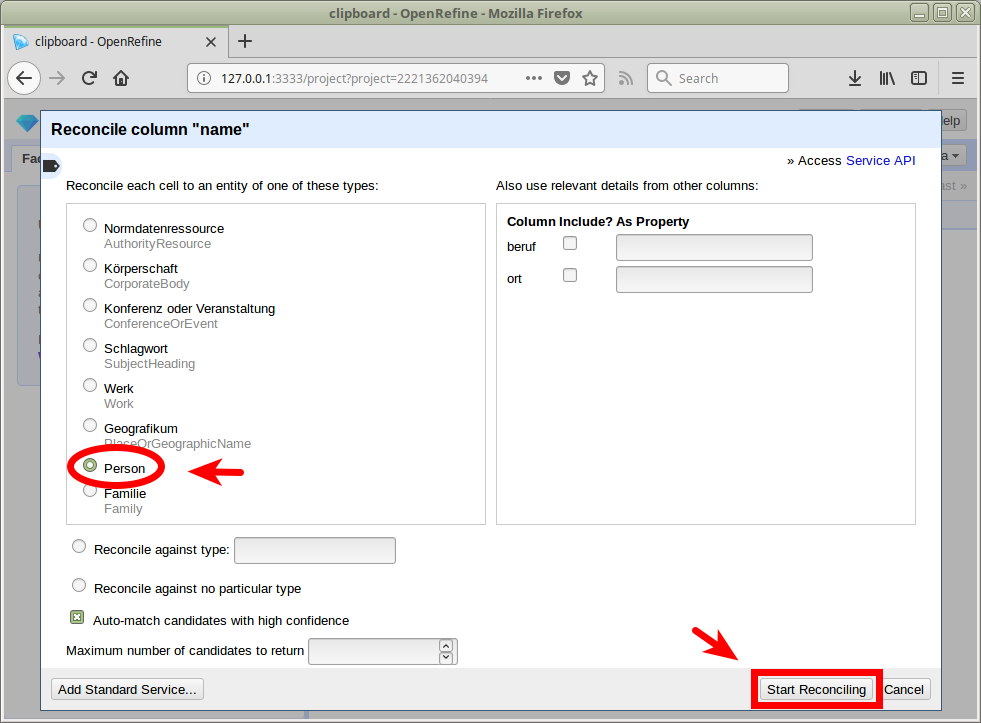
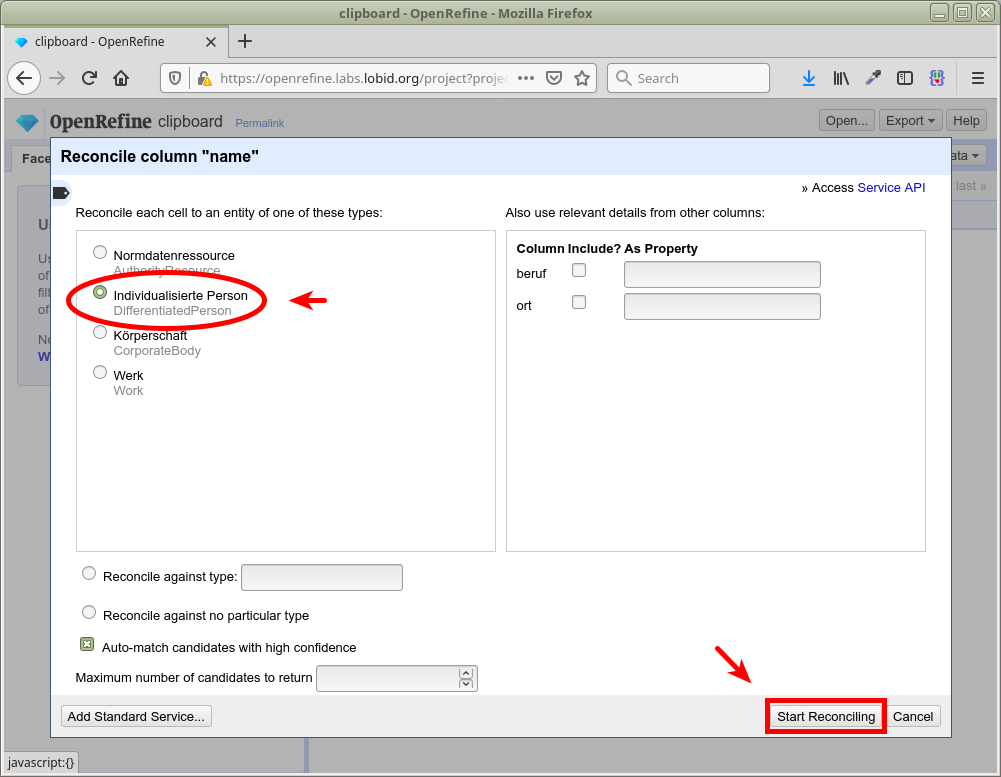
Update links, screenshots, and exercises

Changed region(s): [[0.0, 0.0, 1.0, 1.0]]

diff --git a/2020-zbiw/index.html b/2020-zbiw/index.html
@@ -1006,25 +1006,25 @@ _exists_:dateOfBirth
 			</section>
 
 			<section data-state="adrian">
-				<a href="http://lobid.org/resources/HT019788651"><img src="img/lobid-resources-einzeltreffer.png" width=1024 style="border: none; box-shadow: none;" /></a>
+				<a href="https://lobid.org/resources/HT019788651"><img src="img/lobid-resources-einzeltreffer.png" width=1024 style="border: none; box-shadow: none;" /></a>
 			</section>
 
 			<section data-state="adrian">
-				<a href="http://lobid.org/resources/HT019788651"><img src="img/focus-json-ld-res.png" width=1024 style="border: none; box-shadow: none;" /></a>
+				<a href="https://lobid.org/resources/HT019788651"><img src="img/focus-json-ld-res.png" width=1024 style="border: none; box-shadow: none;" /></a>
 			</section>
 
 			<section data-state="adrian">
-				<a href="http://lobid.org/resources/HT019788651.json"><img src="img/browser-json-res.png" width=800 style="border: none; box-shadow: none;" /></a>
+				<a href="https://lobid.org/resources/HT019788651.json"><img src="img/browser-json-res.png" width=800 style="border: none; box-shadow: none;" /></a>
 			</section>
 
 			<section data-state="adrian">
-				<a href="https://www.w3.org/TR/json-ld/"><img src="img/get-json-res.png" width="1024" /></a>
+				<a href="https://lobid.org/resources/HT019788651.json"><img src="img/get-json-res.png" width="1024" /></a>
 			</section>
 
 			<section data-state="adrian">
 				<h1>Datenherkunft &amp; -generierung</h1>
 				<p><span class="fragment">Tägl. Bezug der XML-Daten über den Aleph-Publishing-Mechanismus</span></p>
-				<p><span class="fragment">Konversion nach N-Triples mittels mit Metafacture (<a href="https://github.com/hbz/lobid-resources/blob/master/src/main/resources/morph-hbz01-to-lobid.xml">Morph</a>)</span></p>
+				<p><span class="fragment">Konversion nach N-Triples mit Metafacture (<a href="https://github.com/hbz/lobid-resources/blob/master/src/main/resources/morph-hbz01-to-lobid.xml">Morph</a>)</span></p>
 				<p><span class="fragment">Dabei finden verschiedene Normalisierungsarbeiten statt</span></p>
 				<p><span class="fragment">Labels für verlinkte Ressourcen ergänzen</span></p>
 				<p><span class="fragment">Et voilà: Linked Open Usable Data (LOUD) <small>-> siehe Rob Sanderson's Europeanatech 2018 Keynote (<a href="https://de.slideshare.net/azaroth42/europeanatech-keynote-shout-it-out-loud">Slides</a>, <a href="https://www.youtube.com/watch?v=r4afi8mGVAY">Aufzeichnung</a>)</small></span></p>
@@ -1039,16 +1039,16 @@ _exists_:dateOfBirth
 
 			<section data-state="adrian">
 				<h3>c. Web-API</h3>
-				<a href="http://lobid.org/resources/api"><img src="img/lobid-resources-api.png" width="800" /></a>
+				<a href="https://lobid.org/resources/api"><img src="img/lobid-resources-api.png" width="800" /></a>
 			</section>
 
 			<section data-state="adrian">
 				<h2>Abfragemöglichkeiten</h2>
 				<p><span class="fragment">JSON-LD-Daten in Elasticsearch-Index</span></p>
 				<p><span class="fragment"><a href="https://www.elastic.co/guide/en/elasticsearch/reference/current/query-dsl-query-string-query.html#query-string-syntax">Elasticsearch</a> bzw. <a href="https://lucene.apache.org/core/2_9_4/queryparsersyntax.html">Lucene</a> Suchsyntax</span></p>
-				<p><span class="fragment"><a href="http://lobid.org/resources/api#query-syntax">Abfrage nach gelöschten Titeln</a> (ab 2018-04-04)</span></p>
-				<p><span class="fragment"><a href="http://lobid.org/resources/api#auto-complete">Parameter für Auto Suggest</a></span></p>
-				<p><span class="fragment"><a href="http://lobid.org/resources/api#content_types">Parameter für Bulk Downloads</a></span></p>
+				<p><span class="fragment"><a href="https://lobid.org/resources/api#query-syntax">Abfrage nach gelöschten Titeln</a> (ab 2018-04-04)</span></p>
+				<p><span class="fragment"><a href="https://lobid.org/resources/api#auto-complete">API für Auto Suggest</a></span></p>
+				<p><span class="fragment"><a href="https://lobid.org/resources/api#bulk_downloads">API für Bulk Downloads</a></span></p>
 			</section>
 
 			<section data-state="adrian">
@@ -1057,7 +1057,7 @@ _exists_:dateOfBirth
 
 			<section data-state="adrian">
 				<h2>Ermitteln eines hbz-Titels anhand der OCLC-Nummer</h2>
-				<a href="http://lobid.org/resources/search?q=oclcNumber:601339369"><code>oclcNumber:601339369</code></a>
+				<a href="https://lobid.org/resources/search?q=oclcNumber:601339369"><code>oclcNumber:601339369</code></a>
 			</section>
 
 			<section data-state="adrian">
@@ -1080,7 +1080,7 @@ AND _exists_:hasItem
 			</section>
 
 			<section data-state="adrian">
-				<h3>ZDB-Titel, die mit einer NWBib-Systematik erschlossen sind aber nicht der NWBib zugerechnet werden und von der ULB Bonn erstellt wurden</h3>
+				<h3>ZDB-Titel, die mit einer NWBib-Systematik erschlossen sind, aber nicht der NWBib zugerechnet werden und von der ULB Bonn erstellt wurden</h3>
 				<a href="https://lobid.org/resources/search?q=subject.source.id%3A%28%22https%3A%2F%2Fnwbib.de%2Fsubjects%22+OR+%22https%3A%2F%2Fnwbib.de%2Fspatial%22%29+AND+inCollection.id%3A%22http%3A%2F%2Flobid.org%2Fresources%2FHT014846970%23%21%22+AND+NOT+inCollection.id%3A%22http%3A%2F%2Flobid.org%2Fresources%2FHT014176012%23%21%22AND+describedBy.sourceOrganization.id%3A%22http%3A%2F%2Flobid.org%2Forganisations%2FDE-5%23%21%22">
 				<pre><code class="json" data-trim>
 subject.source.id:
@@ -1127,7 +1127,11 @@ describedBy.deleted:[20190214 TO 2019023]
 				<p><span class="fragment">Läuft im Browser, lokal oder gehostet</span></p>
 			</section>
 
-			<section data-state="fabian"><p>TODO: Hosted Instanz (v3.4) zur Nutzung (war: https://openrefine.labs.lobid.org)</p></section>
+			<section data-state="fabian">
+				<h1>OpenRefine</h1>
+				<p><a href="https://openrefine.org/download.html">https://openrefine.org/download.html</a></p>
+				<p><a href="https://openrefine.labs.lobid.org">https://openrefine.labs.lobid.org</a></p>
+			</section>
 
 			<section data-state="fabian">
 				<h1>Reconciliation mit OpenRefine</h1>
@@ -1141,11 +1145,27 @@ describedBy.deleted:[20190214 TO 2019023]
 			<section data-state="fabian"><h1>Grundlegendes Vorgehen</h1></section>
 
 			<section data-state="fabian">
+				<img src="img/openrefine-clipboard.png" width=800 style="border: none; box-shadow: none;" />
+			</section>
+
+			<section data-state="fabian">
+				<img src="img/openrefine-data.png" width=800 style="border: none; box-shadow: none;" />
+			</section>
+
+			<section data-state="fabian">
 				<img src="img/openrefine-project.png" width=800 style="border: none; box-shadow: none;" />
 			</section>
 
 			<section data-state="fabian">
 				<img src="img/openrefine-reconcile.png" width=800 style="border: none; box-shadow: none;" />
+			</section>
+
+			<section data-state="fabian">
+				<img src="img/openrefine-add-service.png" width=800 style="border: none; box-shadow: none;" />
+			</section>
+
+			<section data-state="fabian">
+				<img src="img/openrefine-service-url.png" width=800 style="border: none; box-shadow: none;" />
 			</section>
 
 			<section data-state="fabian">
@@ -1157,8 +1177,18 @@ describedBy.deleted:[20190214 TO 2019023]
 			</section>
 
 			<section data-state="fabian">
-				<h1>Übung <br/><small>Grundlegendes Vorgehen</small></h1>
-				<a href="https://blog.lobid.org/2018/08/27/openrefine.html">https://blog.lobid.org/2018/08/27/openrefine.html</a> <br/>(bis 'Start Reconciling')
+				<h1>Übung</h1>
+				<pre><code class=nohighlight>
+name;beruf;ort
+J. Weizenbaum;Informatiker;Berlin
+Twain, Mark;Schriftsteller;
+Kumar, Lalit;;
+Jemand;;
+				</code></pre>
+				<pre><code class=nohighlight>
+https://lobid.org/gnd/reconcile
+				</code></pre>
+				<p><small>(Daten und URL per CTRL+C in die Zwischenablage kopieren)</small></p>
 			</section>
 
 			<section data-state="fabian"><h1>Daten erweitern</h1></section>
@@ -1185,7 +1215,6 @@ describedBy.deleted:[20190214 TO 2019023]
 
 			<section data-state="fabian">
 				<h1>Übung</h1>
-				<p><em>Lade diese Liste, matche die Einträge mit der GND und ergänze Berufe und Wirkungsorte</em></p>
 				<pre><code class=csv>
 id,name
 1,Haddaway
@@ -1197,6 +1226,7 @@ id,name
 7,Anne Cuneo
 8,Vitus Huonder
 				</code></pre>
+				<p>Reconcile, Berufe und Wirkungsorte ergänzen</p>
 			</section>
 
 			<section data-state="fabian"><h1>Ergebnisse verbessern</h1></section>
@@ -1214,9 +1244,11 @@ id,name
 			</section>
 
 			<section data-state="fabian">
-				<h2>Übung: Properties zur Verbessung der Matches – Beispiele</h2>
-				<p><span class="fragment">Lebensdaten</span></p>
-				<p><span class="fragment">Beruf &amp; Parteizugehörigkeit</span></p>
+				<h1>Übung</h1>
+				<p><span class="fragment">Properties zur Verbessung der Matches</span></p>
+				<p><span class="fragment">Auf Basis von konreten Anfragen durch Nutzer</span></p>
+				<p><span class="fragment">1. Beispiel: Lebensdaten</span></p>
+				<p><span class="fragment">2. Beispiel: Beruf &amp; Parteizugehörigkeit</span></p>
 				<p><span class="fragment"><a href="http://blog.lobid.org/2019/09/30/openrefine-examples.html">http://blog.lobid.org/2019/09/30/openrefine-examples.html</a></span></p>
 			</section>
 
@@ -1256,7 +1288,7 @@ id,name
 					<li>Harald Lordick: Die Öffnung der GND und die historische Forschung: <a href="https://djgd.hypotheses.org/1511">https://djgd.hypotheses.org/1511</a></li>
 					<li>Harald Lordick &amp; Beata Mache: Annotationen anhand der Gemeinsamen Normdatei aus einer anwendungsorientierten Perspektive historischer Forschung <a href="https://zenodo.org/record/1188230">https://zenodo.org/record/1188230</a></li>
 					<li>Christian Thomas: Humboldts ›Bekenntnisse‹ von 1801 nach der Original-Handschrift aus den Amerikanischen Reisetagebüchern im Deutschen Textarchiv der BBAW <a href="http://www.avhumboldt.de/?p=14447">http://www.avhumboldt.de/?p=14447</a></li>
-					<li>Christian Erlinger-Schiedlbauer et al. (u.a. Sven Schlarb): Semantische Suchabfragen mit der Linked Open Data Cloud generieren <a href="https://www.societybyte.swiss/2018/10/24/semantische-suchabfragen-mit-der-linked-open-data-cloud-generieren/">https://www.societybyte.swiss/2018/10/24/semantische-suchabfragen-mit-der-linked-open-data-cloud-generieren/</a></li>
+					<li>Christian Erlinger-Schiedlbauer et al.: Semantische Suchabfragen mit der Linked Open Data Cloud generieren <a href="https://www.societybyte.swiss/2018/10/24/semantische-suchabfragen-mit-der-linked-open-data-cloud-generieren/">https://www.societybyte.swiss/2018/10/24/semantische-suchabfragen-mit-der-linked-open-data-cloud-generieren/</a></li>
 				</ul>
 			</section>
 
